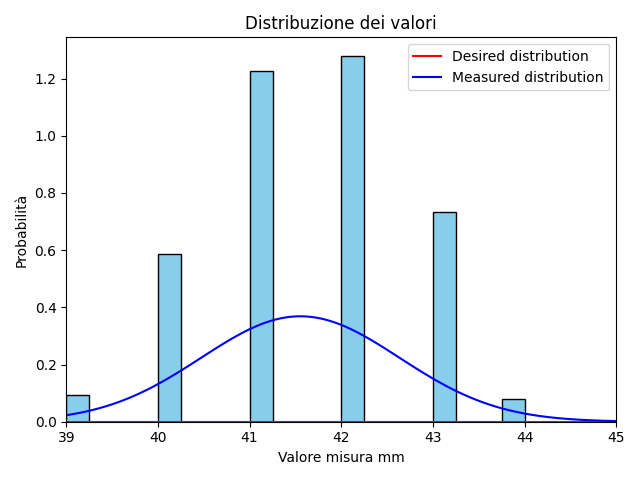
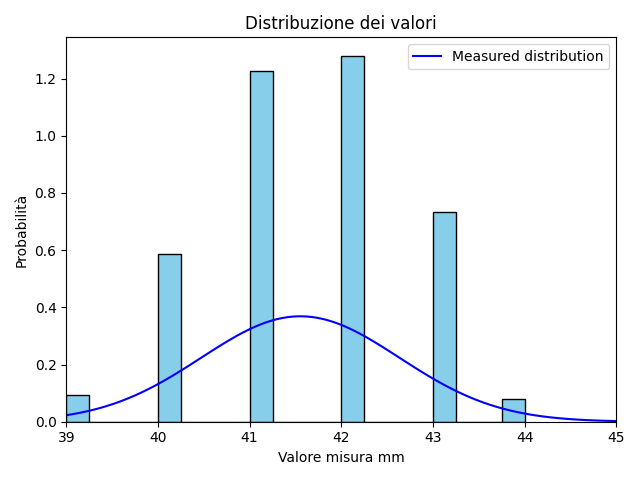
Francesco's push 06-01

Changed region(s): [[0.625, 0.0938, 0.9375, 0.1875]]

diff --git a/analyse.py b/analyse.py
@@ -92,7 +92,7 @@ def analyse_files(folder_path):
 
         sub_folder_path = folder_path + "/" + surface_name
         if (is_analysed(sub_folder_path)):
-            continue
+           continue
 
         # initializing stats file
         create_folder(sub_folder_path + "/stats")
@@ -103,6 +103,9 @@ def analyse_files(folder_path):
         stats.write("valore,media,devstd,error\n")
 
         for measurements_csv_file_name in get_file_names(sub_folder_path):
+
+            #if(measurements_csv_file_name == ".analysed"):
+            #    continue
 
             measurements_csv_file_path = sub_folder_path + "/" + measurements_csv_file_name
 
@@ -158,12 +161,12 @@ def analyse_files(folder_path):
 
             # Calculate the corresponding y values for the Gaussian distribution
             desired_tollerance = 1
-            y_values = norm.pdf(x_values, misura, desired_tollerance/3)
+            #y_values = norm.pdf(x_values, misura, desired_tollerance/3)
             y_values_m = norm.pdf(x_values, mean_distance, std_dev_distance)
 
             plt.hist(measurements_data_frame["distance"].astype(float), bins=20, color="skyblue",
                      edgecolor="black", density=True, stacked=True)
-            plt.plot(x_values, y_values, 'r-', label='Desired distribution')
+            #plt.plot(x_values, y_values, 'r-', label='Desired distribution')
             plt.plot(x_values, y_values_m, 'b-', label='Measured distribution')
             plt.legend()
 
